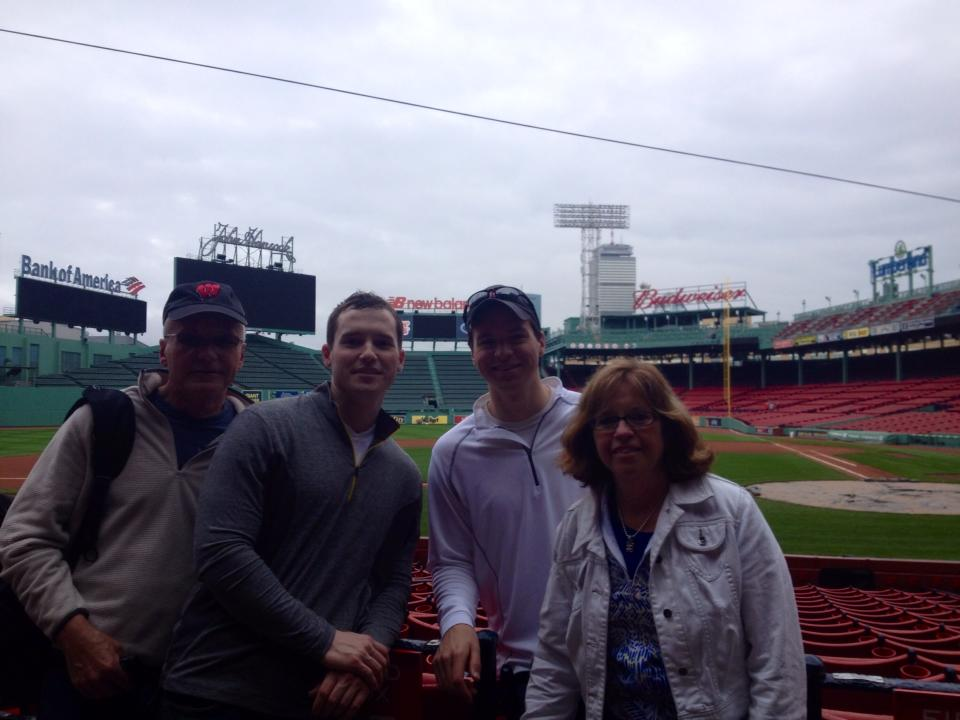
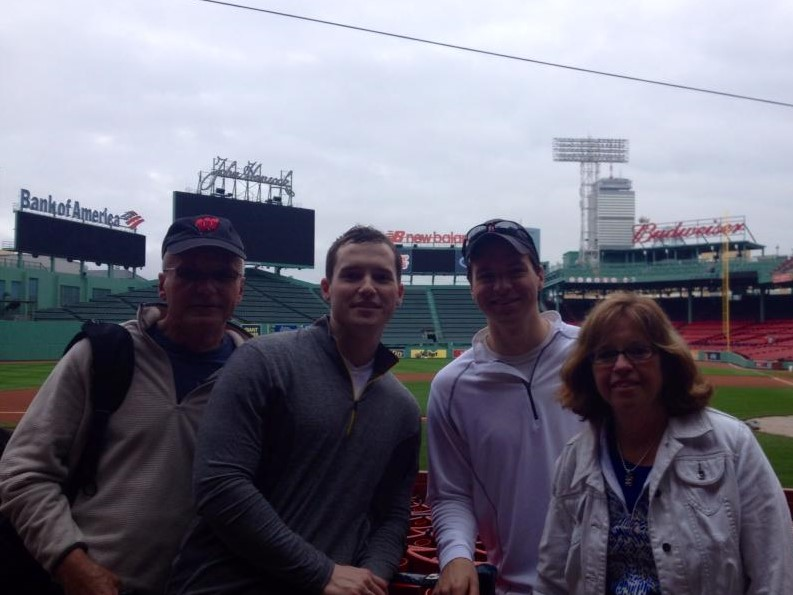
Adjusted Fenway Photo

diff --git a/styles.css b/styles.css
@@ -1,7 +1,11 @@
 
-h1 { font-family: "Calibri" }
-h1 { font-family: "Calibri" }
+head {text-align: right;}
 
+div { border: solid 5px Black;
+  padding: 10px}
+
+h1 { font-family: "Calibri" }
+h1 { font-family: "Calibri" }
 h1 { color: Black;  }
 
 body {
@@ -10,5 +14,4 @@ body {
   margin-left: 100px;
   margin-right: 100px;
   margin-top: 50px;
-  margin-bottom: 50px;
-}
+  margin-bottom: 50px;}

diff --git a/index.html b/index.html
@@ -6,7 +6,7 @@
 </head>
 
 <body>
-  <p><a href="file:///C:/Code/hw1/index.html">Ross' Resume</p>
+    <p><a href="file:///C:/Code/hw1/index.html">Ross' Resume</p>
     <p><a href="Page-3.html">Ross' Favorite Photos</a></p>
     <p><a href="Page-2.html">Ross' Lovely Family</a></p>
 

diff --git a/Page-2.html b/Page-2.html
@@ -17,7 +17,7 @@
       <img src="My-Family.jpg">
 
       <p>Tourist's on a Fenway Paak Tour:</p>
-      <img src="My-Family.v2.jpg">
+      <img src="My-Family.v3.jpg">
 
   </div>
 
